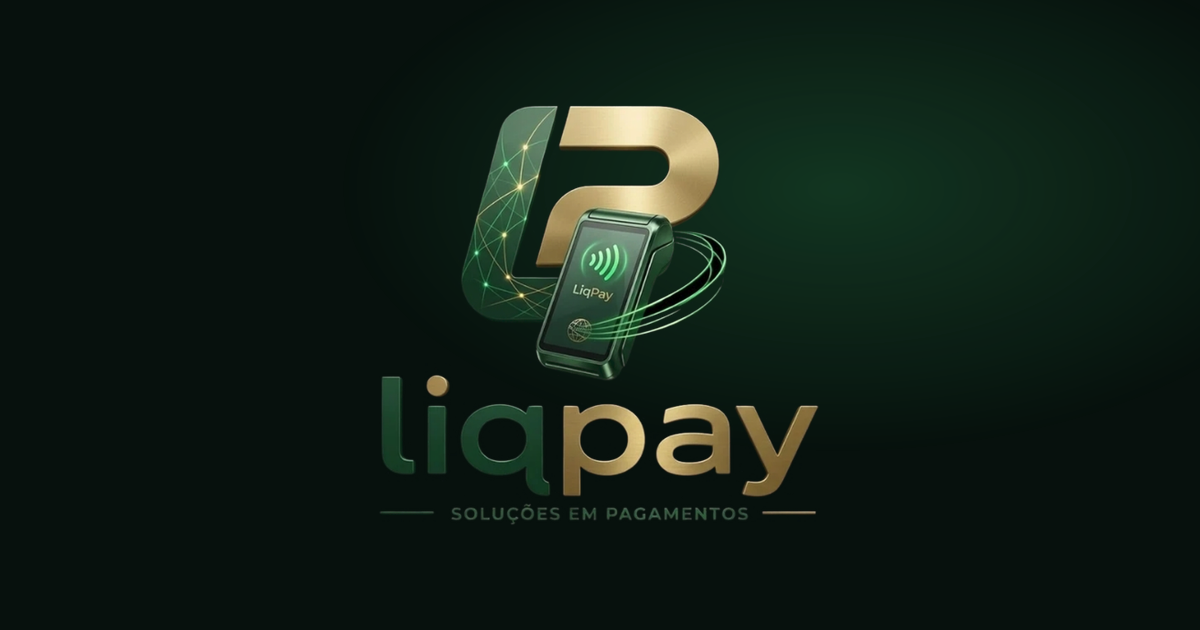
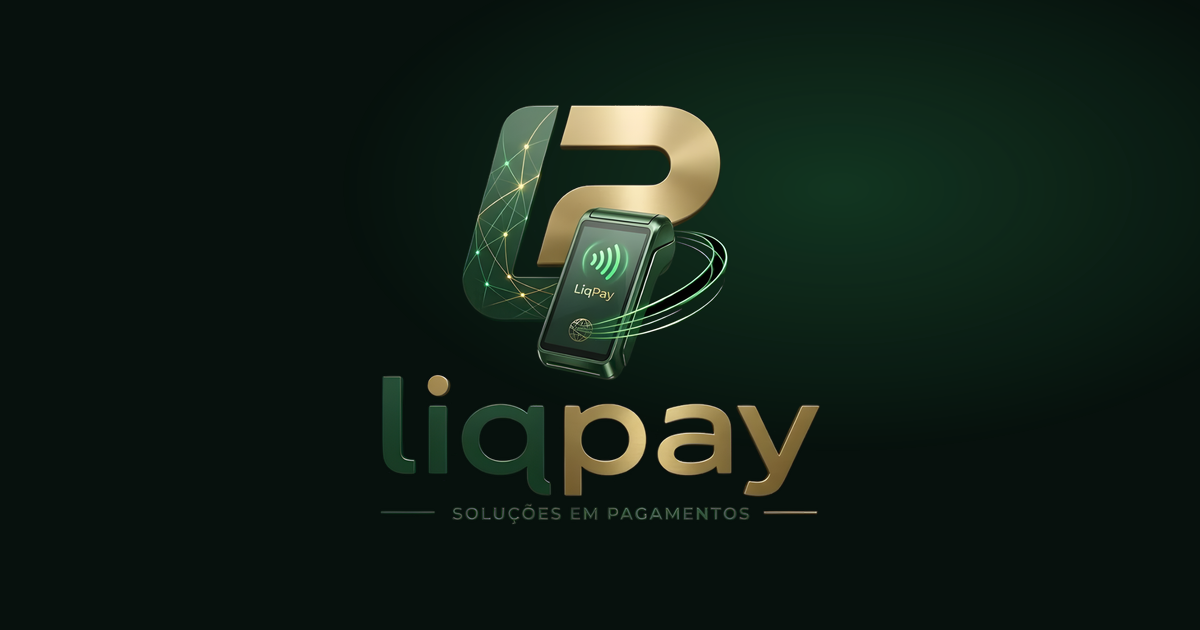
feat(footer): exibe a logomarca completa no rodapé a partir da versão em alta resolução

diff --git a/src/components/layout/Logo/Logo.tsx b/src/components/layout/Logo/Logo.tsx
@@ -4,27 +4,31 @@ import { cn } from '@/lib/cn';
 import { withBasePath } from '@/lib/paths';
 import styles from './Logo.module.scss';
 
-// Arquivo @2x exibido em 1x: nítido em telas retina e só alguns KB a mais em telas comuns.
-const WORDMARK = {
-  src: '/images/logo-wordmark-compact@2x.webp',
-  width: 108,
-  height: 32,
+// Arquivos @2x exibidos em 1x: nítidos em telas retina e só alguns KB a mais em telas comuns.
+const LOGO_IMAGES = {
+  // Só o nome, sem o slogan: o slogan fica ilegível na altura do header.
+  compact: { src: '/images/logo-wordmark-compact@2x.webp', width: 108, height: 32 },
+  // Símbolo, nome e slogan: para onde há espaço, como o rodapé.
+  full: { src: '/images/logo-full@2x.webp', width: 168, height: 160 },
 } as const;
 
 interface LogoProps {
+  readonly variant?: keyof typeof LOGO_IMAGES;
   /** 'eager' só no header, que está sempre acima da dobra. */
   readonly loading?: 'eager' | 'lazy';
   readonly className?: string;
 }
 
-/** Nome "liqpay" com link para a página inicial. */
-export function Logo({ loading = 'lazy', className }: LogoProps) {
+/** Logo da LiqPay com link para a página inicial. */
+export function Logo({ variant = 'compact', loading = 'lazy', className }: LogoProps) {
+  const image = LOGO_IMAGES[variant];
+
   return (
     <Link href='/' className={cn(styles.logo, className)}>
       <Image
-        src={withBasePath(WORDMARK.src)}
-        width={WORDMARK.width}
-        height={WORDMARK.height}
+        src={withBasePath(image.src)}
+        width={image.width}
+        height={image.height}
         alt='LiqPay – página inicial'
         loading={loading}
       />

diff --git a/scripts/generate-images.ts b/scripts/generate-images.ts
@@ -36,8 +36,11 @@ const WORDMARK_LETTERS_CUT_ROW = 154;
 // Alfa até ~3%: resto invisível de suavização das bordas, aceito na linha do corte.
 const INVISIBLE_ALPHA = 8;
 
+// Logomarca completa (símbolo, nome e slogan): rodapé, JSON-LD e imagem Open Graph.
+const FULL_LOGO_SOURCE = 'LiqPay_logo_4096px.png';
+
 const LOGO_VARIANTS: readonly LogoVariant[] = [
-  { source: 'Logo_LiqPay_sem_fundo.png', name: 'logo-full', height: 160 },
+  { source: FULL_LOGO_SOURCE, name: 'logo-full', height: 160 },
   { source: 'LiqPay_nome.png', name: 'logo-wordmark', height: 40 },
   // Sem o slogan: em 32–40px de altura ele fica ilegível. Para o header e o rodapé.
   {
@@ -78,7 +81,6 @@ const PRODUCT_IMAGES: readonly ProductImage[] = [
     displayWidth: 280,
   },
 ];
-const FULL_LOGO_SOURCE = 'Logo_LiqPay_sem_fundo.png';
 
 const ICON_SIZE = 512;
 const APPLE_ICON_SIZE = 180;

diff --git a/src/components/layout/Footer/Footer.tsx b/src/components/layout/Footer/Footer.tsx
@@ -41,7 +41,7 @@ export function Footer() {
       <div className={styles.container}>
         <div className={styles.columns}>
           <div className={styles.brand}>
-            <Logo />
+            <Logo variant='full' />
             <p className={styles.tagline}>{siteConfig.tagline}</p>
           </div>
 
